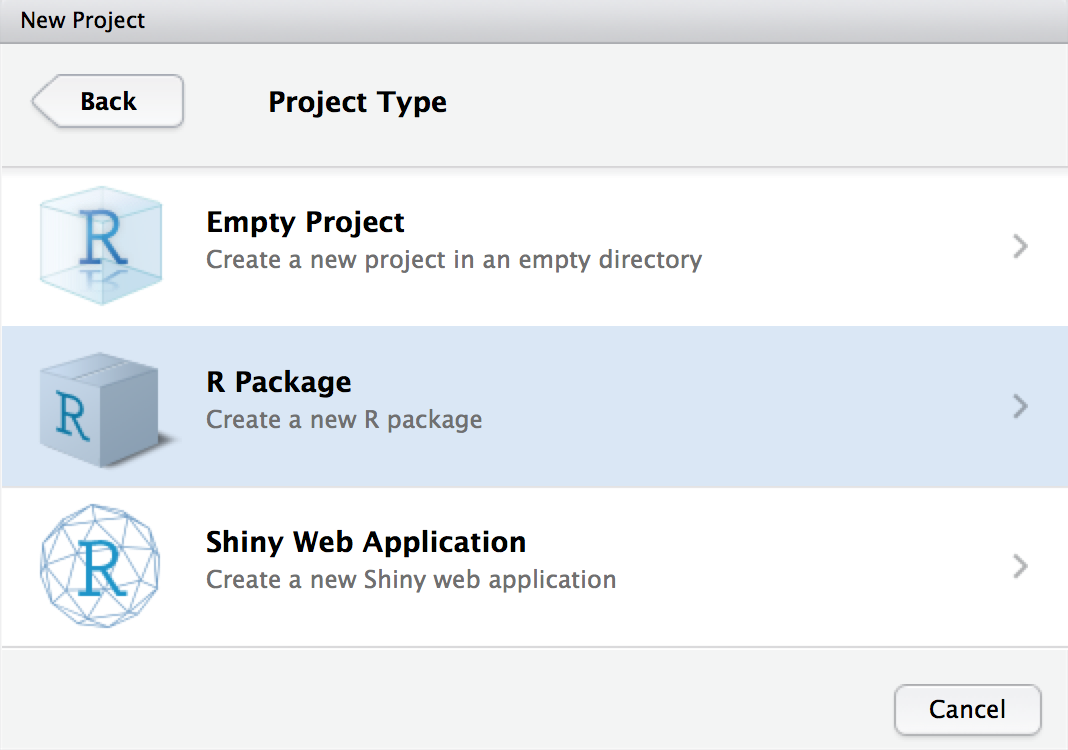
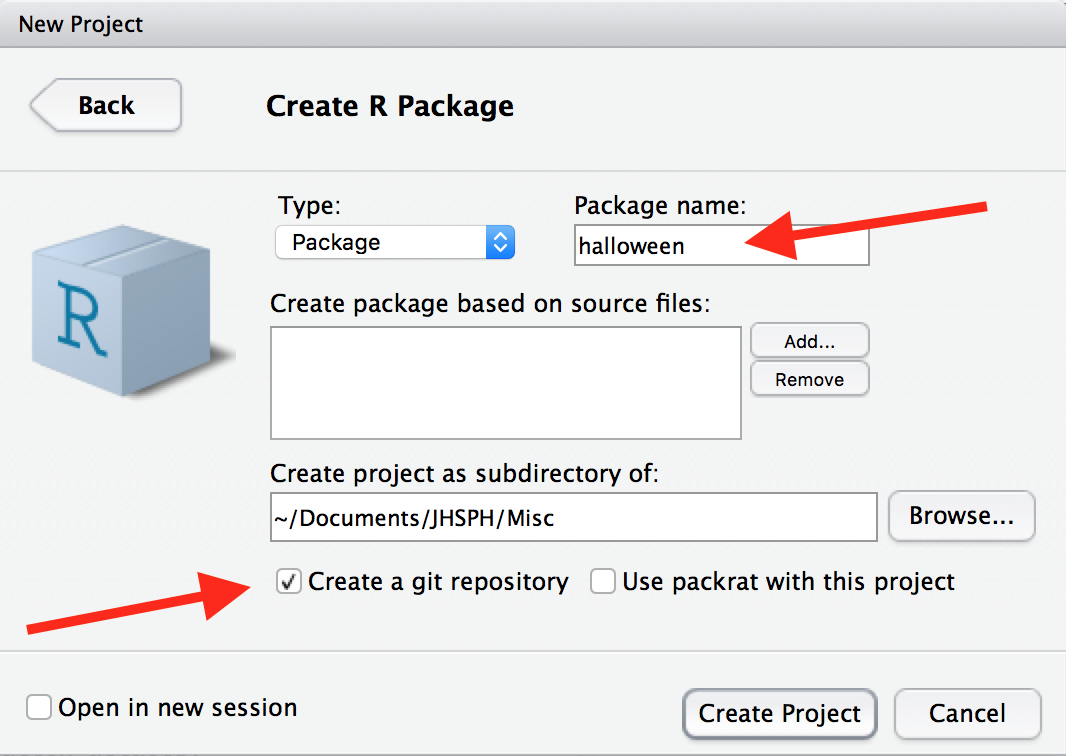
added more instructions to the README

diff --git a/README.md b/README.md
@@ -13,19 +13,33 @@ First, we will build an R package that creates a barplot of the top-ranked candi
 
 1) Select "New R Project" in the drop down menu in the top right corner of the window
 2) Select "New Directory"
-<img src="figures/new_directory.png" width="500">
-
 3) Select "R Package"
+4) Name your R package **halloween**, and specify where you want this new directory to live locally. *Make sure that "Create a git repository" is selected!*
 
 <img src="figures/r_package.png" width="500">
 
-4) Choose a name for your R package (I suggest naming it *halloween*, for simplicity), and specify where you want this new directory to live. *Make sure that "Create a git repository" is selected!*
+Next, let's create a GitHub repository online and link it to the local directory.  You can do so by following the steps in [this GitHub help page](https://help.github.com/articles/adding-an-existing-project-to-github-using-the-command-line/), or follow these condensed steps: 
 
-Let's download the data:
+1) Create a new repo called "halloween" (*do* add a README, do *not* add a .gitignore)
+2) Open the terminal and make your way into the "halloween" directory.
+3) Edit the code chunk below according to your own GitHub username, and then paste it line by line into the terminal (if you forgot to select "Create a git repository" when making your R project, don't worry!  Before you enter the code below, type `git init` to initialize the repo):
 
-1) Open the terminal and navigate to your directory of choice
-2) Run the following command to download the data into a `.csv` file: 
 ```
-curl https://raw.githubusercontent.com/fivethirtyeight/data/master/candy-power-ranking/candy-data.csv > candy_data.csv
+git add .
+git commit -m "first commit"
+git remote add origin git@github.com:[YOUR-USERNAME]/halloween.git
+git push -u origin master
 ```
-*PC users may need to use `wget` instead of `curl`*
+
+Now double check on the GitHub website to verify that the files have been pushed!
+
+Next, while we have the terminal open and directed into the "halloween" directory, let's download the data that we'll be including in the R package by running the following command:
+
+```
+curl https://raw.githubusercontent.com/fivethirtyeight/data/master/candy-power-ranking/candy-data.csv > data/candy_data.csv
+```
+
+Note that the code above does 3 things: 1) it uses `curl` to read the csv file from FiveThirtyEight's data repo, 2) it uses `>` to funnel the output into the file 'data/candy_data.csv', and 3) since the 'data' directory didn't already exist, it went ahead and created it!
+
+*a note for PC users, you may need to use `wget` instead of `curl`*
+
